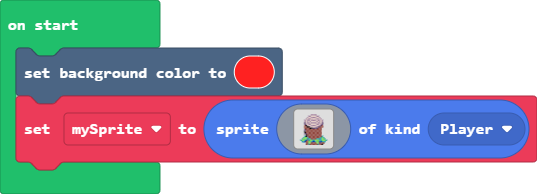
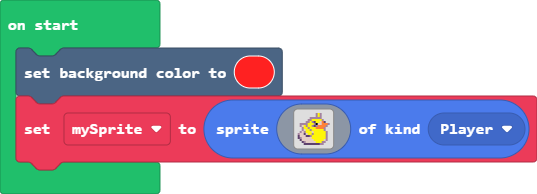
i changed the sprite

Changed region(s): [[0.5363, 0.5876, 0.6257, 0.7732]]

diff --git a/main.ts b/main.ts
@@ -1,27 +1,19 @@
 scene.setBackgroundColor(2)
 let mySprite = sprites.create(img`
-    ........................
-    ..........bbbb..........
-    ........bbddddbb........
-    .......bddbbbbddb.......
-    ......bdbbddddbbdb......
-    .....bdbbdbbbbdbbdb.....
-    .....bdbdbddddbdbdb.....
-    .....cdbbdbbbbdbbdc.....
-    .....cbdbbddddbbdbc.....
-    .....efbddbbbbddbce.....
-    .....eeffbddddbccee.....
-    .....eeeeffcccceee......
-    .....ceeeeeeeeeeee......
-    .....ceeeeeeeeeeee......
-    .....feeeeeeeeeeee......
-    .....cceeeeeeeeeee......
-    ......feeeeeeeeeee......
-    .....6fceeeeeeeeee6.....
-    ....6776eeeeeeeee676....
-    ...6777666eeee6666776...
-    ..67768e67766777667776..
-    ...668ee7768867788666...
-    ......ee77eeee77ecee....
-    ......ee6eeeeee6eef.....
+    . . . . . . . . . b 5 b . . . . 
+    . . . . . . . . . b 5 b . . . . 
+    . . . . . . b b b b b b . . . . 
+    . . . . . b b 5 5 5 5 5 b . . . 
+    . . . . b b 5 b c 5 5 d 4 c . . 
+    . b b b b 5 5 5 b f d d 4 4 4 b 
+    . b d 5 b 5 5 b c b 4 4 4 4 b . 
+    . . b 5 5 b 5 5 5 4 4 4 4 b . . 
+    . . b d 5 5 b 5 5 5 5 5 5 b . . 
+    . b d b 5 5 5 d 5 5 5 5 5 5 b . 
+    b d d c d 5 5 b 5 5 5 5 5 5 b . 
+    c d d d c c b 5 5 5 5 5 5 5 b . 
+    c b d d d d d 5 5 5 5 5 5 5 b . 
+    . c d d d d d d 5 5 5 5 5 d b . 
+    . . c b d d d d d 5 5 5 b b . . 
+    . . . c c c c c c c c b b . . . 
     `, SpriteKind.Player)
